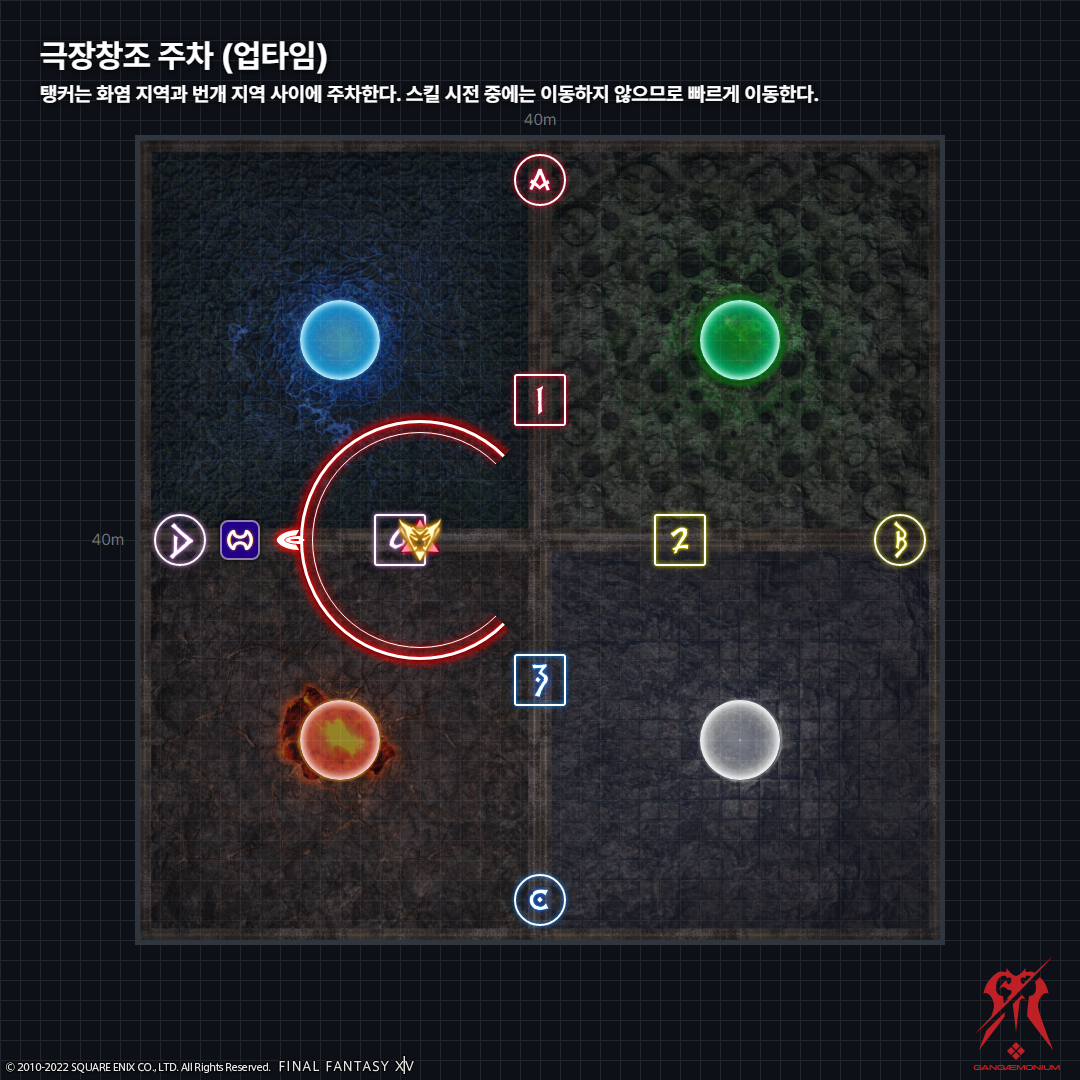
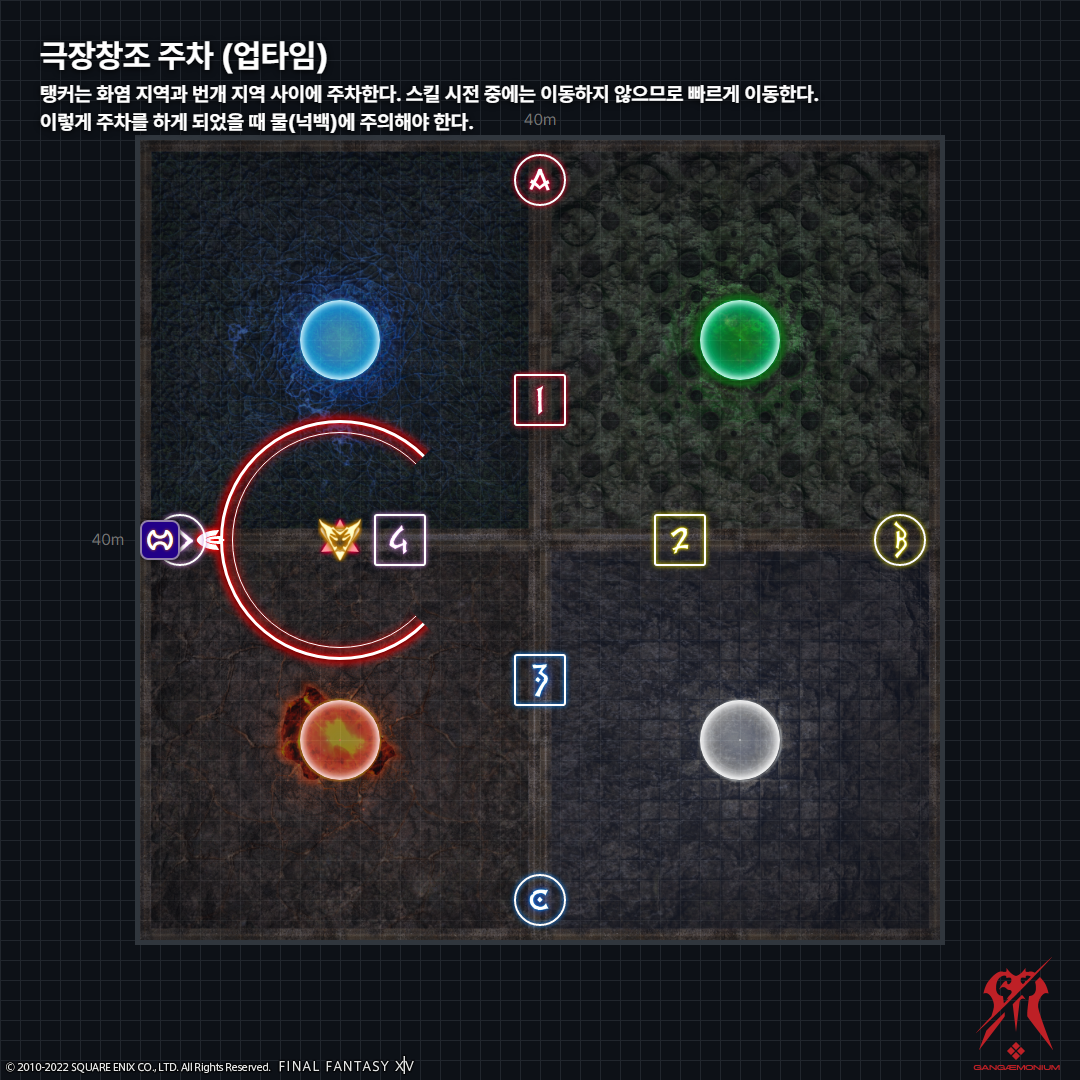
update `p4s1`

Changed region(s): [[0.1222, 0.3667, 0.4889, 0.6417], [0.0306, 0.0917, 0.4278, 0.1222], [0.3667, 0.4583, 0.4278, 0.5194]]

diff --git a/p4s_I/README.md b/p4s_I/README.md
@@ -50,7 +50,7 @@
         전염 인계 완료한 조는 6시 징 위(본진 위치)로 이동
         - 첫번째 `피의 호수` 대장자가 아니었던 조가 줄 인계한 다음 처리
 - 우아한 파열
-    - 어그로 1순위 탱커에게 강공격 2회
+    - 적개심 1위 탱커에게 강공격 2회
     - 무적기 처리 또는 탱커들이 도발하여 1회씩 처리
 - 극장 창조
     - 필드 변경(물/번개/불/산 바닥) 생성
@@ -73,7 +73,7 @@
     - `원소 저항 감소 디버프` 부여
 - 강화된 벨로네: 폭발
     - 맵 외곽에 `녹색 구`가 8개 소환되며, 각자 가까운 구와 연결됨
-    - 가지고 있는 디버프와 같은 종류의 구를 처리해야 하며, 2인 쉐어로 처리해야함
+    - 가지고 있는 디버프와 같은 종류의 구를 처리해야 하며, 2인 쉐어로 처리
     - 먼저 페어와 같이 이동하여 각각 3시, 6시, 9시, 12시에 있는 구를 터뜨림
     - 2번째 공을 터뜨리기 전 중앙으로 약간 모여서 체력 회복을 받음
     - 이후 처음 구를 터뜨린 장소에서 시계 방향으로 1칸 이동하여 구를 처리
@@ -88,7 +88,7 @@
     (줄을 인계한 대상자가 이후 반전된 클라미스 줄 처리)
     - 두번째 금지 기둥 생성<br>
     (금지 기둥 대상자가 아닐 시 약간 산개하여 전염 처리 준비) 
-    - 두번째 원형 처리 완료 후 장판에 피격된 인원들은 6시에 집합 할 것
+    - 두번째 원형 처리 완료 후 장판에 피격된 인원들은 6시에 집합
 
 ## 전염 처리 (YPP식) 모두 같은 조 I
 ![/p4s_I/images/0056.png](https://raw.githubusercontent.com/Gangaemonium/Asphodelos/main/p4s_I/images/0056.png)
@@ -117,8 +117,10 @@
 ![/p4s_I/images/0062.png](https://raw.githubusercontent.com/Gangaemonium/Asphodelos/main/p4s_I/images/0062.png)
 ## 극장창조 주차
 ![/p4s_I/images/0063.png](https://raw.githubusercontent.com/Gangaemonium/Asphodelos/main/p4s_I/images/0063.png)
-## 피낙스 (번개 - 거리감쇠)
+## 피낙스 (번개 - 거리 반비례)
+![/p4s_I/images/0096.png](https://raw.githubusercontent.com/Gangaemonium/Asphodelos/main/p4s_I/images/0096.png)
 ## 피낙스 (산 - 산개)
+![/p4s_I/images/0097.png](https://raw.githubusercontent.com/Gangaemonium/Asphodelos/main/p4s_I/images/0097.png)
 ## 피낙스 (물 - 넉백)
 ## 피낙스 (용암 - 쉐어)
 ## 변위 타격 (검)
